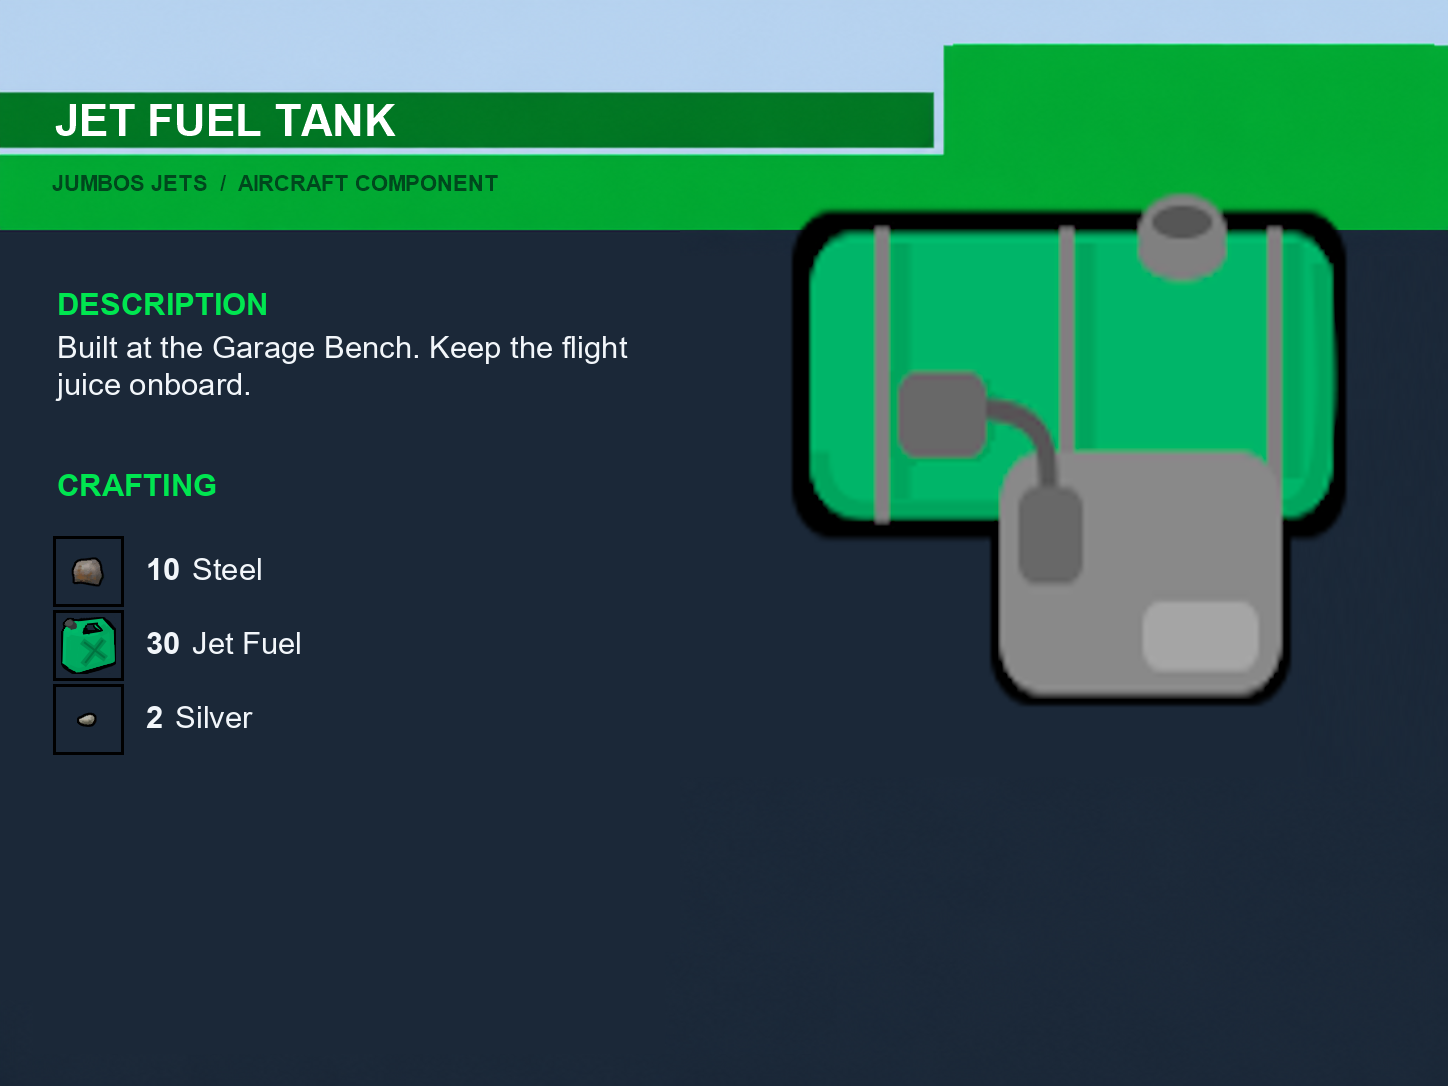
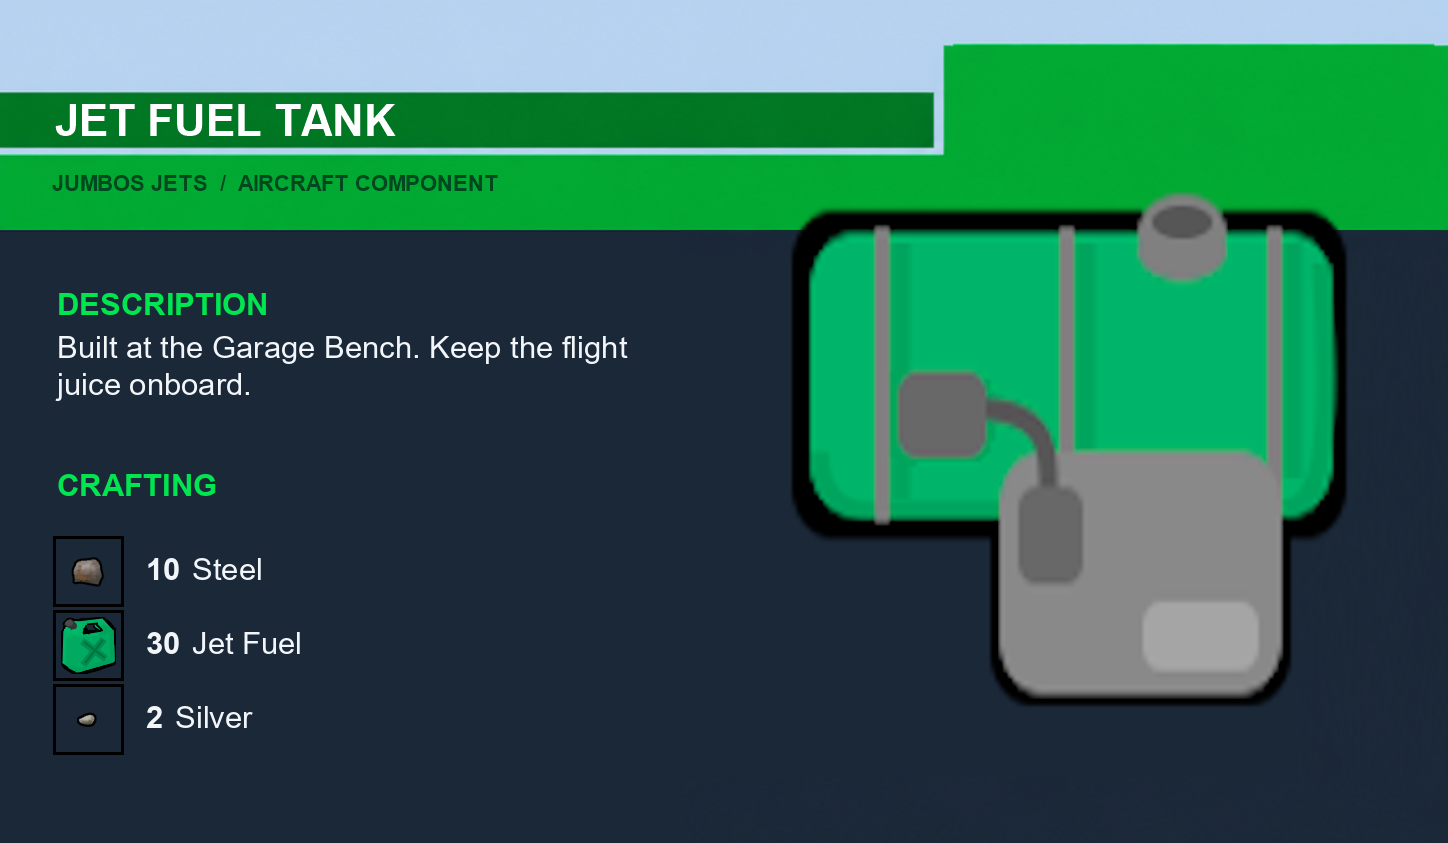
added and corrected images - udated steam page info

diff --git a/docs/Steam Page/README.md b/docs/Steam Page/README.md
@@ -1,94 +1,98 @@
-# Jumbos Jets: Close Air Support for RimWorld
+[h1]Jumbos Jets: Close Air Support for RimWorld[/h1]
 
 Build, crew, and send the Warthog into action. Jumbos Jets brings heavy close air support to RimWorld, from researching jet propulsion and manufacturing aircraft parts to keeping your plane fueled and on station. Draw a strafing line across an existing map, spend steel to unleash the run, and use a laser designator to guide its accuracy.
 
-## What's inside
+[h2]What's inside[/h2]
 
 Take command of the Warthog, a purpose-built attack jet. Develop its specialized engines and components, produce dedicated jet fuel, then launch aerial sorties over maps in your world. Strafing runs strike along a line you choose, while a pawn using the laser designator can help focus the attack.
 
-## Required mods
+[h2]Gameplay[/h2]
 
-- [Harmony](https://steamcommunity.com/sharedfiles/filedetails/?id=2009463077)
-- [Vehicle Framework](https://steamcommunity.com/sharedfiles/filedetails/?id=3014915404)
-- [Vanilla Vehicles Expanded](https://steamcommunity.com/sharedfiles/filedetails/?id=3014906877)
+[b]Gameplay[/b]
+[url=https://images.steamusercontent.com/ugc/14266512743042036791/D6C600E5F56FB0581A1A6A2CB7C799B3353601EE/][img]https://images.steamusercontent.com/ugc/14266512743042036791/D6C600E5F56FB0581A1A6A2CB7C799B3353601EE/[/img][/url]
+
+[b]Laser Guidance[/b]
+[url=https://images.steamusercontent.com/ugc/12460747524643325980/164D12818D45F2E556D4C07A8F7BEB82FDDCDCC3/][img]https://images.steamusercontent.com/ugc/12460747524643325980/164D12818D45F2E556D4C07A8F7BEB82FDDCDCC3/[/img][/url]
+
+[h2]Aircraft[/h2]
+
+[b]Warthog[/b]
+[url=https://images.steamusercontent.com/ugc/10898274549850275023/D26D0ED43277A118C951F4CAE09BD9BBD26650EA/][img]https://images.steamusercontent.com/ugc/10898274549850275023/D26D0ED43277A118C951F4CAE09BD9BBD26650EA/[/img][/url]
+
+[h2]Research[/h2]
+
+[b]Research[/b]
+[url=https://images.steamusercontent.com/ugc/10711609250410799232/A3D1ECC9C2F5FEE898FC97CEF9FB5AAC99D807FF/][img]https://images.steamusercontent.com/ugc/10711609250410799232/A3D1ECC9C2F5FEE898FC97CEF9FB5AAC99D807FF/[/img][/url]
+
+[h2]Components[/h2]
+
+[b]Engine[/b]
+[url=https://images.steamusercontent.com/ugc/11187669569707528794/3B705CFB87BC4D85D91609A1B5ACD568062F9FBA/][img]https://images.steamusercontent.com/ugc/11187669569707528794/3B705CFB87BC4D85D91609A1B5ACD568062F9FBA/[/img][/url]
+
+[b]Jet Exhaust[/b]
+[url=https://images.steamusercontent.com/ugc/13469800592401179763/4B9BDBD0DC7A7452205D782B73797BB43BDD5640/][img]https://images.steamusercontent.com/ugc/13469800592401179763/4B9BDBD0DC7A7452205D782B73797BB43BDD5640/[/img][/url]
+
+[b]Jet Fuel Tank[/b]
+[url=https://images.steamusercontent.com/ugc/16151777034220422067/C7CC14B6B072E4C5E68868FEEEA9E2238ADFBA8D/][img]https://images.steamusercontent.com/ugc/16151777034220422067/C7CC14B6B072E4C5E68868FEEEA9E2238ADFBA8D/[/img][/url]
+
+[b]Intake[/b]
+[url=https://images.steamusercontent.com/ugc/11367504907635285327/16CBD9BB55F419463CA1AFB350E4566C1DD7D3A9/][img]https://images.steamusercontent.com/ugc/11367504907635285327/16CBD9BB55F419463CA1AFB350E4566C1DD7D3A9/[/img][/url]
+
+[b]Parts[/b]
+[url=https://images.steamusercontent.com/ugc/12120902809592996806/A4A3C42FECDDAC5D0C7119DAD29D829E47674E74/][img]https://images.steamusercontent.com/ugc/12120902809592996806/A4A3C42FECDDAC5D0C7119DAD29D829E47674E74/[/img][/url]
+
+[h2]Items[/h2]
+
+[b]Laser[/b]
+[url=https://images.steamusercontent.com/ugc/14034347956614224817/48625B05C6DEA89510C54A1F3BBCE7935C674278/][img]https://images.steamusercontent.com/ugc/14034347956614224817/48625B05C6DEA89510C54A1F3BBCE7935C674278/[/img][/url]
+
+[b]Jet Fuel[/b]
+[url=https://images.steamusercontent.com/ugc/17952554917823644096/CD28A664AB375D9BD5D4042E7E8D57EBAC1F4B1B/][img]https://images.steamusercontent.com/ugc/17952554917823644096/CD28A664AB375D9BD5D4042E7E8D57EBAC1F4B1B/[/img][/url]
+[h2]Required mods[/h2]
+
+[list]
+[*][url=https://steamcommunity.com/sharedfiles/filedetails/?id=2009463077]Harmony[/url]
+[*][url=https://steamcommunity.com/sharedfiles/filedetails/?id=3014915404]Vehicle Framework[/url]
+[*][url=https://steamcommunity.com/sharedfiles/filedetails/?id=3014906877]Vanilla Vehicles Expanded[/url]
+[/list]
 
 Load these mods before Jumbos Jets.
 
-## Thanks and credits
+[h2]Thanks and credits[/h2]
 
 Jumbos Jets is made by Tha Mary Man. A big thank-you to the creators of Harmony, Vehicle Framework, and Vanilla Vehicles Expanded; their work provides the foundation that lets this mod bring aircraft to RimWorld.
 
-## Art and code note
-
-All artwork in Jumbos Jets was created by a human. AI helped write some of the code, which was reviewed and tested by a human in-game.
-## Planned future features
+[h2]Planned future features[/h2]
 
 Future ideas include more aircraft, enemy air support, anti-air defenses, additional munitions, and aircraft crash or ejection events. These are possibilities for later updates, not features included in the current release.
 
-## A note about the mod
+[h2]Art and code note[/h2]
 
-Jumbos Jets is a work in progress, and its balance, systems, and compatibility may still have rough edges. Bug reports must include the full `Player.log` from the session where the issue occurred, steps to reproduce it, and your game and mod versions. Reports without session logs will not be reviewed.
+All artwork in Jumbos Jets was created by a human. AI helped write some of the code, which was reviewed and tested by a human in-game.
 
-**Find your log after the problem occurs, before relaunching RimWorld** (the file is replaced each time the game starts):
+[h2]A note about the mod[/h2]
 
-- **Windows:** Press `Win+R`, paste `%localappdata%low\Ludeon Studios\RimWorld by Ludeon Studios`, and press Enter. Attach `Player.log` from that folder.
-- **macOS:** In Finder, press `Cmd+Shift+G`, paste `~/Library/Logs/Ludeon Studios/RimWorld by Ludeon Studios/`, and press Enter. Attach `Player.log` from that folder.
+Jumbos Jets is a work in progress, and its balance, systems, and compatibility may still have rough edges. Bug reports must include the full [b]Player.log[/b] from the session where the issue occurred, steps to reproduce it, and your game and mod versions. Reports without session logs will not be reviewed.
 
-## IMAGES
+[h3]Finding your log[/h3]
 
+Get the log after the problem occurs and before relaunching RimWorld; the game replaces it when it starts.
 
-## Gameplay
+[list]
+[*][b]Windows:[/b] Press Win+R, enter %localappdata%low\Ludeon Studios\RimWorld by Ludeon Studios, and press Enter. Attach Player.log from that folder.
+[*][b]macOS:[/b] In Finder, press Cmd+Shift+G, enter ~/Library/Logs/Ludeon Studios/RimWorld by Ludeon Studios/, and press Enter. Attach Player.log from that folder.
+[/list]
 
-## AirCraft
+[h2]FAQ[/h2]
 
-## Research
+[b]How do I unlock the Warthog and its parts?[/b] Research Jet Propulsion in the Vehicles tree. It branches from Aerial Vehicles and requires a techprint.
 
-## Components
+[b]How do I make jet fuel?[/b] Refine three chemfuel into one jet fuel at a biofuel refinery after researching Biofuel Refining.
 
-## Items
+[b]Can the Warthog attack a map it has not visited?[/b] It can attack an existing map associated with its current world location; a sortie does not generate a new map.
 
+[b]Does the laser designator deal damage?[/b] No. It marks a target and improves the accuracy of a Warthog run that passes close to the designation.
 
+[b]Can a pawn move while using the laser designator?[/b] A move order cancels the designation and lets the pawn move.
 
-1. Mod overview / hero graphic
-2. The Warthog aircraft
-3. Jet propulsion research and aircraft parts
-4. Jet fuel production
-5. Aerial strafing runs
-6. Laser designation and guided accuracy
-7. Dependencies, compatibility notes, credits, and FAQ
-
-The individual briefs are in [`Features`](Features) and [`Items`](Items). Each includes Steam-ready draft copy and a separate image brief. Use the image brief as a starting point for your graphics; the copy can be shortened or revised to fit the final page layout.
-
-Finished feature cards and individual item cards are in [`Graphics`](Graphics). The feature set covers [Aerial Sorties](Graphics/AerialSorties.png), [Laser Guidance](Graphics/LaserGuidance.png), [Jet Propulsion](Graphics/JetPropulsion.png), and [Jet Fuel Production](Graphics/JetFuel.png). Individual cards cover the [Warthog](Graphics/Item-Warthog.png), [Laser Designator](Graphics/Item-LaserDesignator.png), [Jet Engine](Graphics/Item-JetEngine.png), [Jet Intake](Graphics/Item-JetIntake.png), [Jet Exhaust](Graphics/Item-JetExhaust.png), [Jet Fuel Tank](Graphics/Item-JetFuelTank.png), [Jet Parts](Graphics/Item-JetParts.png), and [Jet Fuel](Graphics/Item-JetFuel.png). Their source scene panels and the rebuild script are kept alongside them.
-
-## Release facts to confirm before publishing
-
-- This project targets RimWorld 1.6 and lists Harmony, Vehicle Framework, and Vanilla Vehicles Expanded as dependencies in `About.xml`.
-- The Warthog sortie definition currently specifies a 30-cell maximum line, 20 impacts, 53 damage per impact, one steel per impact, 7-cell unguided scatter, and 2.5-cell guided scatter. The guidance area is currently a 10-cell radius.
-- The laser designator currently has 120-cell range, 25 charges, and requires the operator to remain stationary with line of sight.
-- The Warthog definition currently requires two jet engines, two intakes, two exhausts, fifteen jet-parts items, two jet-fuel tanks, three car wheels, 500 steel, four industrial components, and two advanced components.
-- Confirm the exact recipe bench and final balancing in a clean RimWorld launch before describing those details as tested. Some older README notes and aircraft descriptions are stale.
-- Enemy aircraft, anti-air weapons, crash events, bombs, and additional plane models appear in the idea list; they are not presented here as included features.
-
-## Page assembly notes
-
-Keep each section focused on one player-facing benefit. Pair it with one clear graphic or in-game screenshot. Good candidates are a Warthog feature plate, a production-chain graphic, a marked strafing line with its blast footprint, and a laser-designation comparison. The screenshot or infographic should show actual current behavior; avoid depicting planned systems as if they were already in the mod.
-
-## Requirements and FAQ copy draft
-
-**Required mods:** Harmony, Vehicle Framework, and Vanilla Vehicles Expanded.
-
-**Who made Jumbos Jets?** Tha Mary Man.
-
-**How do I unlock the Warthog and its parts?** Research Jet Propulsion in the Vehicles tree. The project branches from Aerial Vehicles and requires a techprint.
-
-**How do I make jet fuel?** Refine three chemfuel into one jet fuel at a biofuel refinery after researching Biofuel Refining.
-
-**Can the Warthog attack a map it has not visited?** A sortie targets an existing map associated with the aircraft's current world location. The attack does not generate a new map.
-
-**Does the laser designator deal damage?** No. It marks a target and improves the accuracy of a Warthog run that passes close to the designation.
-
-**Can I move a pawn while it is aiming the designator?** No. A move order stops the designation and lets the pawn move.
-
-**What other aircraft and air-defense systems are included?** The current release content described in this draft includes the Warthog only. Additional aircraft, anti-air weapons, and enemy air support are future ideas, not included features.
-
+[b]Are other aircraft and air defenses included?[/b] The current release includes the Warthog. Other aircraft, anti-air weapons, and enemy air support are future ideas.
